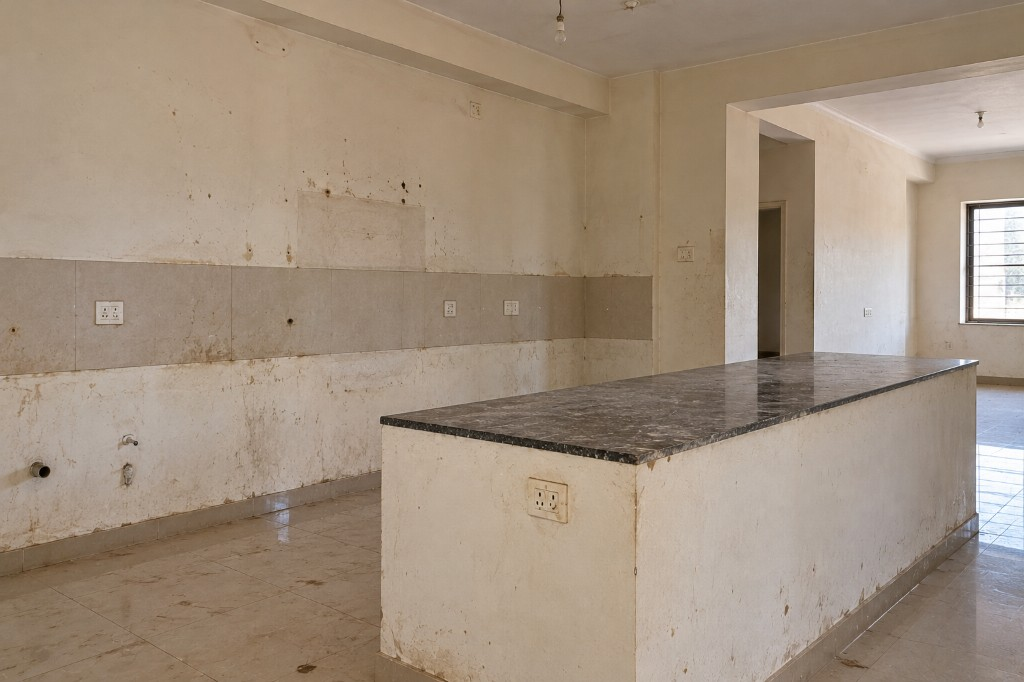
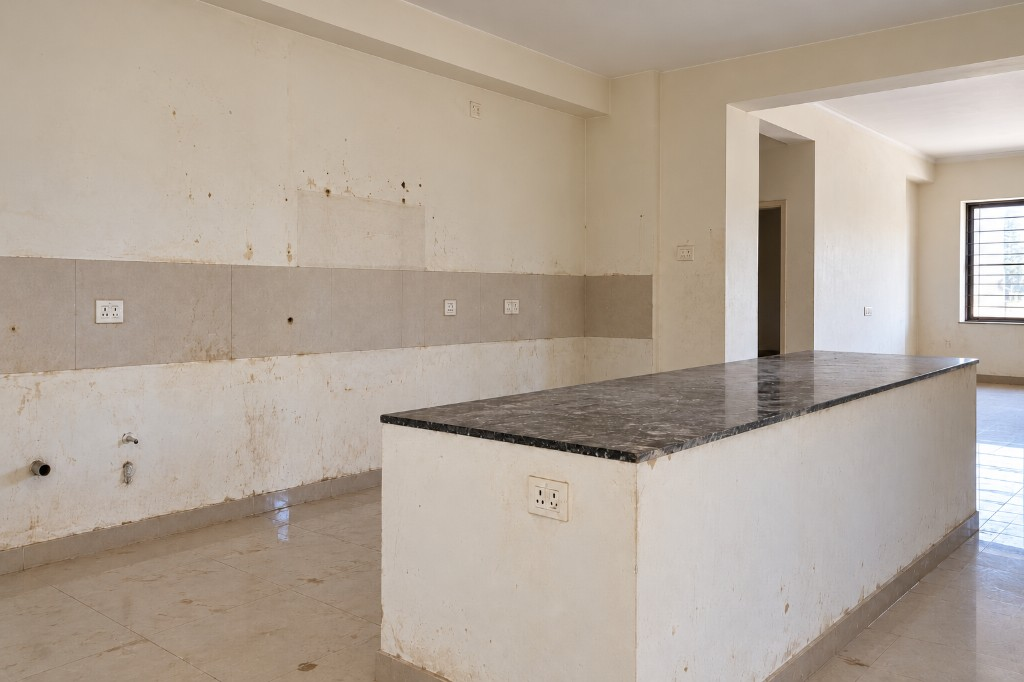
update

diff --git a/src/data/projects.ts b/src/data/projects.ts
@@ -53,9 +53,9 @@ export const projects: Project[] = [
     ],
     gallery: [
       { src: "/images/project-living-after.jpg", alt: "Finished living room" },
-      { src: "/images/project-living-before.jpg", alt: "Living room before renovation" },
+      { src: "/images/ba-living-before-v4.jpg", alt: "Living room before renovation" },
     ],
-    beforeImage: "/images/project-living-before.jpg",
+    beforeImage: "/images/ba-living-before-v4.jpg",
     afterImage: "/images/project-living-after.jpg",
     featured: true,
   },
@@ -82,9 +82,9 @@ export const projects: Project[] = [
     ],
     gallery: [
       { src: "/images/ba-cabinets-after.jpg", alt: "Finished custom kitchen cabinets" },
-      { src: "/images/ba-cabinets-before.jpg", alt: "Kitchen before cabinetry" },
+      { src: "/images/ba-cabinets-before-v5.jpg", alt: "Kitchen before cabinetry with unfinished island" },
     ],
-    beforeImage: "/images/ba-cabinets-before.jpg",
+    beforeImage: "/images/ba-cabinets-before-v5.jpg",
     afterImage: "/images/ba-cabinets-after.jpg",
     featured: true,
   },
@@ -140,9 +140,9 @@ export const projects: Project[] = [
     ],
     gallery: [
       { src: "/images/ba-bedrooms-after.jpg", alt: "Finished luxury bedroom" },
-      { src: "/images/ba-bedrooms-before.jpg", alt: "Bedroom before renovation" },
+      { src: "/images/ba-bedrooms-before-v2.jpg", alt: "Bedroom before renovation" },
     ],
-    beforeImage: "/images/ba-bedrooms-before.jpg",
+    beforeImage: "/images/ba-bedrooms-before-v2.jpg",
     afterImage: "/images/ba-bedrooms-after.jpg",
     featured: true,
   },

diff --git a/src/components/ui/BeforeAfterSlider.tsx b/src/components/ui/BeforeAfterSlider.tsx
@@ -108,7 +108,10 @@ export function BeforeAfterSlider({
         alt={afterAlt}
         fill
         sizes="100vw"
-        className="object-cover object-center"
+        className={cn(
+          "object-cover",
+          isVertical ? "object-[center_55%]" : "object-center",
+        )}
         draggable={false}
         priority
       />
@@ -127,7 +130,10 @@ export function BeforeAfterSlider({
           alt={beforeAlt}
           fill
           sizes="100vw"
-          className="object-cover object-center"
+          className={cn(
+            "object-cover",
+            isVertical ? "object-[center_60%]" : "object-center",
+          )}
           draggable={false}
           priority
         />
